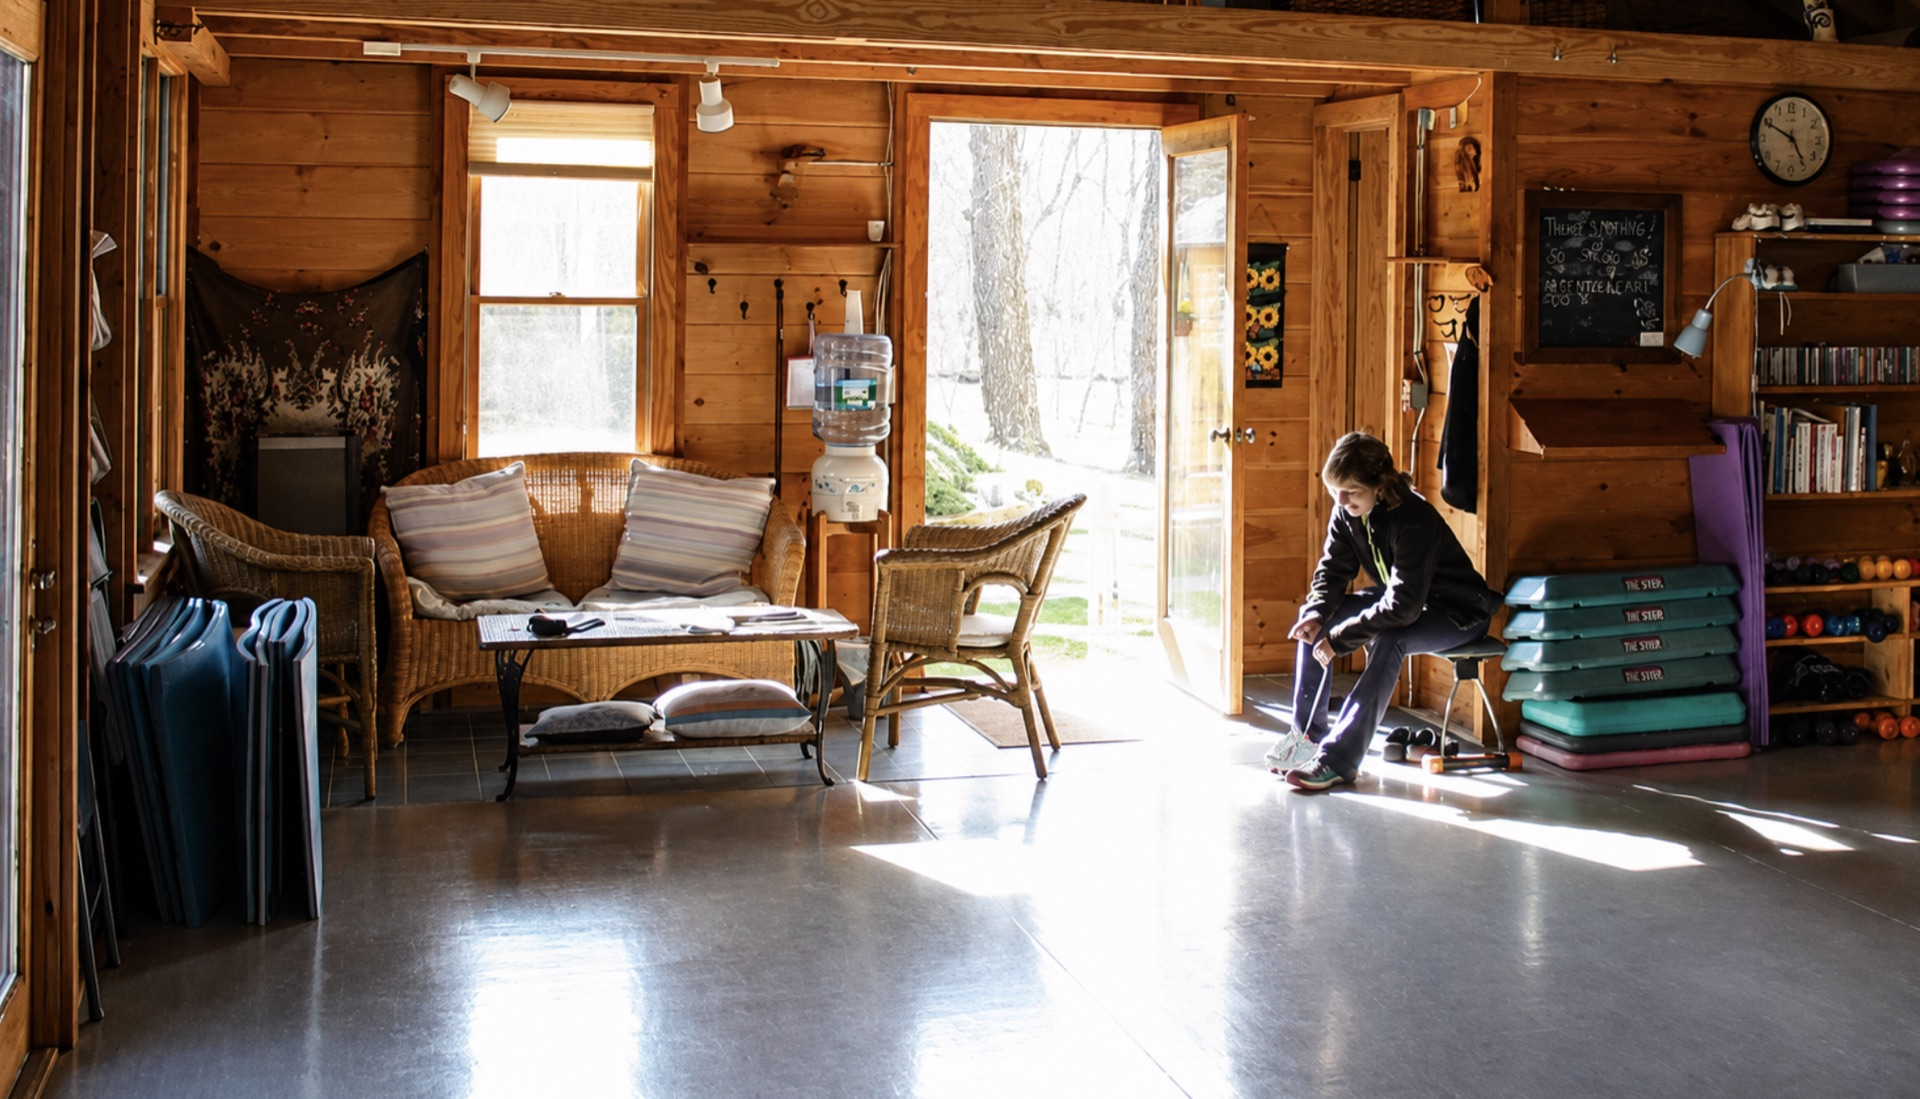
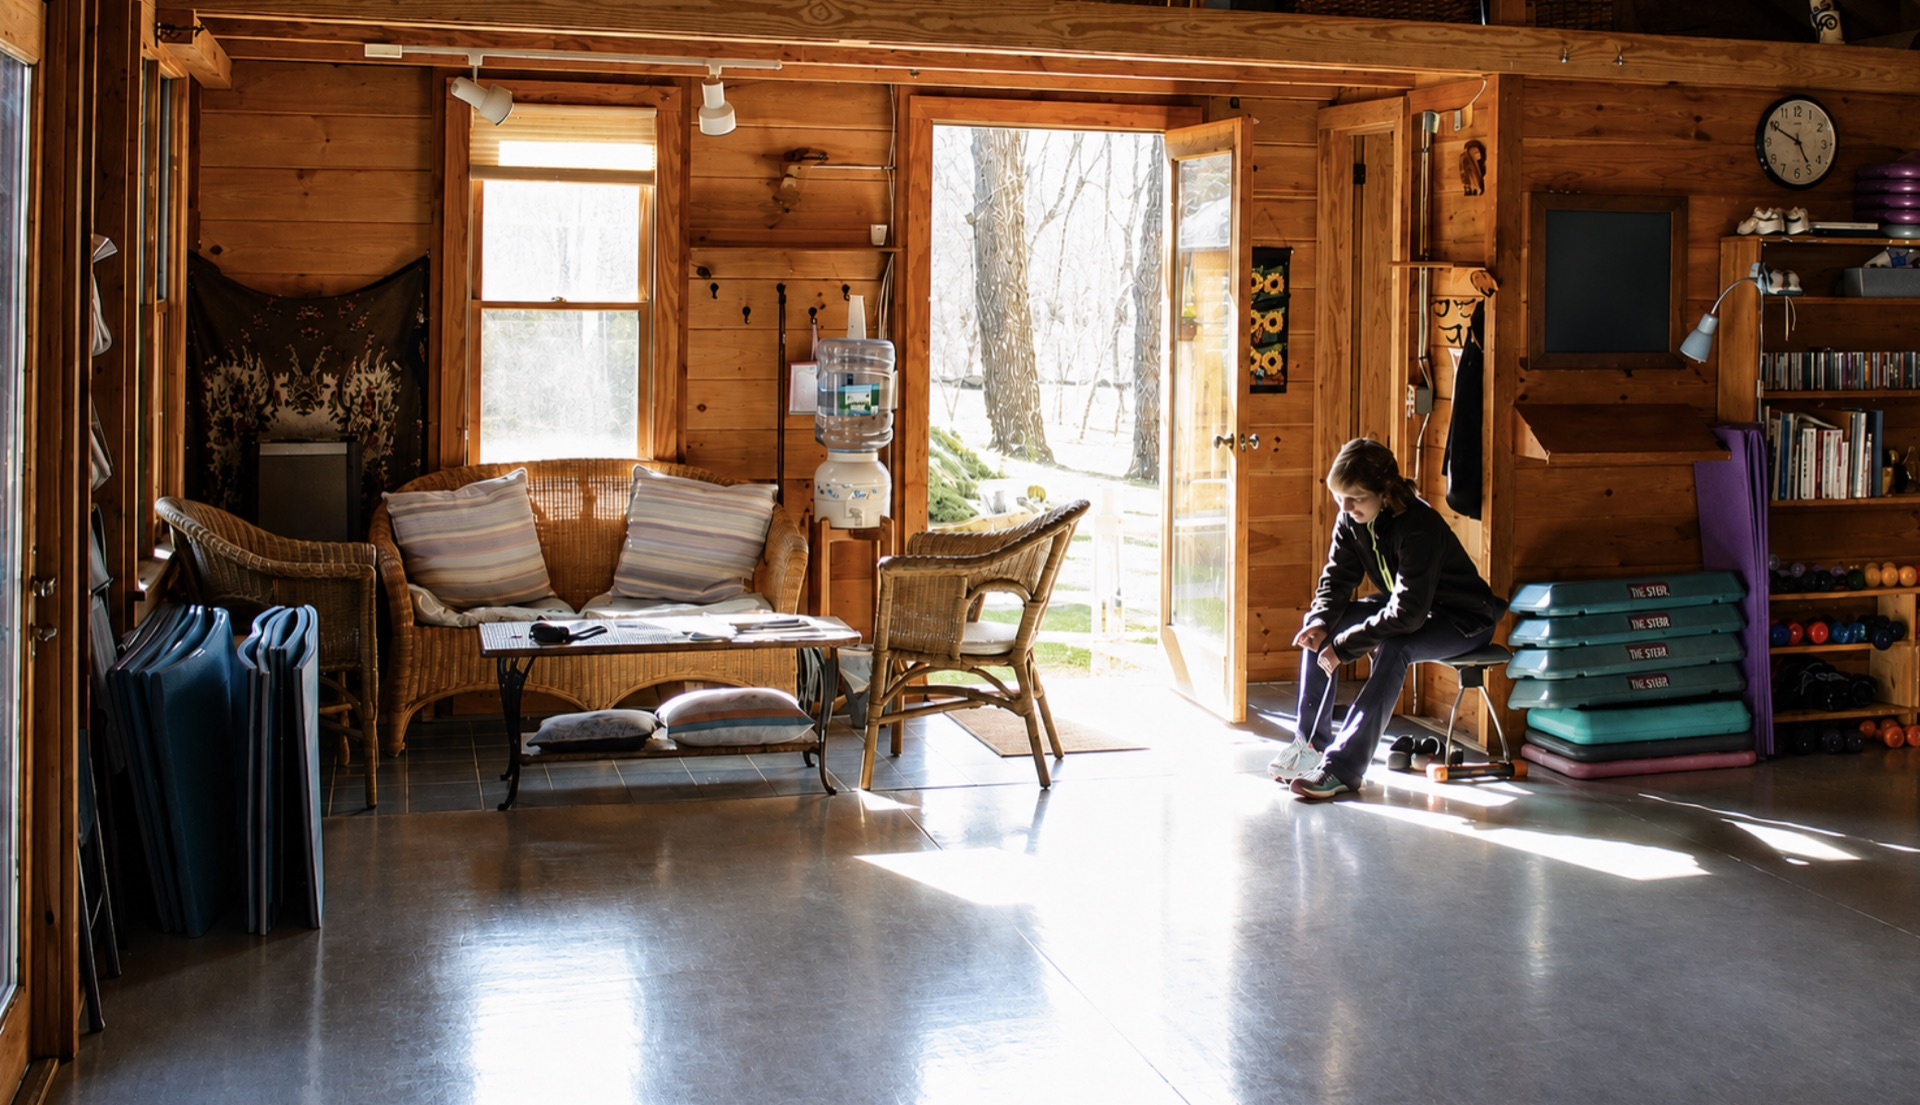
New hero; standalone schedule page; swim books by phone; footer credit
- Swap hero to the sharper studio photo
- Move group class schedule to its own schedule.html (linked only from
  the Training page); its CTA is call (primary) / email (secondary)
- Swim lessons now book by phone: 'Call Lisa to book' -> tel
- Keep free consult focused on personal training
- Add 'Website by The Switchboard Company' footer credit on all pages

diff --git a/website/schedule.html b/website/schedule.html
@@ -3,8 +3,9 @@
 <head>
   <meta charset="UTF-8" />
   <meta name="viewport" content="width=device-width, initial-scale=1" />
-  <title>The Studio — Lisa's Studio, West Tisbury</title>
-  <meta name="description" content="A calm, private fitness studio in a woodland setting at 23 Manters Path, West Tisbury, Martha's Vineyard." />
+  <title>Group Class Schedule — Lisa's Studio, Martha's Vineyard</title>
+  <meta name="description" content="Group fitness class schedule at Lisa's Studio, West Tisbury — Mon, Wed & Fri, 8:00–9:15am, June 22nd through Sept. 18th. Call Lisa to join." />
+  <meta name="robots" content="noindex, follow" />
 
   <link rel="preconnect" href="https://fonts.googleapis.com" />
   <link rel="preconnect" href="https://fonts.gstatic.com" crossorigin />
@@ -32,9 +33,9 @@
 
       <nav class="nav__links" aria-label="Primary">
         <a href="approach.html">Approach</a>
-        <a href="training.html">Training</a>
+        <a href="training.html" class="is-active" aria-current="page">Training</a>
         <a href="about.html">About</a>
-        <a href="studio.html" class="is-active" aria-current="page">The Studio</a>
+        <a href="studio.html">The Studio</a>
         <a href="contact.html">Contact</a>
       </nav>
 
@@ -50,9 +51,9 @@
 
     <div class="mobile-menu" id="mobileMenu" hidden>
       <a href="approach.html">Approach</a>
-      <a href="training.html">Training</a>
+      <a href="training.html" class="is-active" aria-current="page">Training</a>
       <a href="about.html">About</a>
-      <a href="studio.html" class="is-active" aria-current="page">The Studio</a>
+      <a href="studio.html">The Studio</a>
       <a href="contact.html">Contact</a>
       <a href="contact.html#book" class="btn btn--primary js-book">Book a free consult</a>
       <a href="tel:+15086931009" class="btn btn--ghost">Call 508-693-1009</a>
@@ -62,57 +63,54 @@
   <main id="main">
     <header class="page-hero">
       <div class="container">
-        <p class="eyebrow">The studio &amp; setting</p>
-        <h1 class="page-hero__title">A quiet space in the woods.</h1>
-        <p class="lead-muted">Set among the trees at 23 Manters Path in West Tisbury — calm, private, and unhurried. The opposite of a busy gym floor.</p>
+        <p class="eyebrow">Group class schedule</p>
+        <h1 class="page-hero__title">Studio class schedule.</h1>
+        <p class="lead-muted">Small, welcoming group classes in the studio — here's when we meet. All levels genuinely welcome.</p>
       </div>
     </header>
 
-    <section class="section studio">
+    <section class="section schedule-sec">
       <div class="container">
-        <div class="studio__gallery">
-          <div class="tile tile--tall">
-            <img src="assets/img/coaching-mat.webp" alt="Lisa coaching a client through core work on a mat, exercise balls lining the wall above" loading="lazy" />
-            <span class="tile__label">Real coaching, every rep</span>
+        <div class="sched grid-2">
+          <div class="sched__card">
+            <span class="sched__season">June 22nd – Sept. 18th</span>
+            <p class="sched__label">Studio Classes</p>
+            <p class="sched__days">Mon · Wed · Fri</p>
+            <p class="sched__time">8:00 – 9:15 am</p>
           </div>
-          <div class="tile">
-            <img src="assets/img/band-training.webp" alt="Lisa and a client doing partner resistance-band training" loading="lazy" />
-            <span class="tile__label">Strength, made friendly</span>
-          </div>
-          <div class="tile">
-            <img src="assets/img/foam-roller.webp" alt="Lisa spotting a client during foam roller balance work by the studio windows" loading="lazy" />
-            <span class="tile__label">Woodland light</span>
-          </div>
-          <div class="tile tile--wide">
-            <img src="assets/img/studio-interior.webp" alt="The bright wood-paneled studio interior with mirrors, mats, and exercise balls" loading="lazy" />
-            <span class="tile__label">Calm, private &amp; unhurried</span>
+          <div class="sched__body">
+            <p>
+              Group classes consist of a flexibility warm-up, strength training using a variety
+              of "props" — including free weights, tubing, bands, and more — and a 25-minute
+              cardio "dance" segment to a variety of music.
+            </p>
+            <p>
+              We usually use mats for core and abdominal exercises, as well as the ballet barre
+              for hip mobility and leg exercises.
+            </p>
+            <blockquote class="sched__quote">
+              "A total body workout that feels great and is <em>FUN!</em>"
+              <cite>— Lisa</cite>
+            </blockquote>
           </div>
         </div>
       </div>
     </section>
 
-    <section class="section welcome">
-      <div class="container narrow center">
-        <p class="eyebrow">Visit</p>
-        <h2 class="h2">Find us in West Tisbury.</h2>
-        <p class="lead-muted">
-          23 Manters Path, West Tisbury, Martha's Vineyard, MA.<br/>
-          Sessions are by appointment — <a href="tel:+15086931009">call 508-693-1009</a> or
-          <a href="contact.html">send a booking request</a> and Lisa will find a time that works.
-        </p>
-      </div>
-    </section>
     <section class="section cta-band">
       <div class="container center">
-        <p class="eyebrow">Ready when you are</p>
-        <h2 class="h2">Start with a free consultation.</h2>
-        <p class="cta-band__lead">Every new client begins with a free consult — Lisa hears your goals, needs, and history, then maps the right path forward. No pressure, no commitment.</p>
+        <p class="eyebrow">Join a class</p>
+        <h2 class="h2">Come move with us.</h2>
+        <p class="cta-band__lead">Classes are casual and welcoming — reach Lisa directly and she'll get you set up.</p>
         <div class="cta-band__actions">
-          <a href="contact.html#book" class="btn btn--primary btn--lg js-book">
-            <svg class="icon" viewBox="0 0 24 24" aria-hidden="true"><path fill="none" stroke="currentColor" stroke-width="1.8" stroke-linecap="round" stroke-linejoin="round" d="M7 3v3m10-3v3M4 8h16M5 6h14a1 1 0 0 1 1 1v12a1 1 0 0 1-1 1H5a1 1 0 0 1-1-1V7a1 1 0 0 1 1-1Z"/></svg>
-            Book a free consultation
+          <a href="tel:+15086931009" class="btn btn--primary btn--lg">
+            <svg class="icon" viewBox="0 0 24 24" aria-hidden="true"><path fill="none" stroke="currentColor" stroke-width="1.8" stroke-linecap="round" stroke-linejoin="round" d="M4 5c0 8.3 6.7 15 15 15a2 2 0 0 0 2-2v-2.3a1 1 0 0 0-.8-1l-3.3-.7a1 1 0 0 0-1 .3l-1 1a12 12 0 0 1-5.5-5.5l1-1a1 1 0 0 0 .3-1L9.3 4.8a1 1 0 0 0-1-.8H6a2 2 0 0 0-2 2Z"/></svg>
+            Call 508-693-1009
           </a>
-          <a href="tel:+15086931009" class="btn btn--ghost btn--lg">Call 508-693-1009</a>
+          <a href="mailto:amols@comcast.net" class="btn btn--ghost btn--lg">
+            <svg class="icon" viewBox="0 0 24 24" aria-hidden="true"><path fill="none" stroke="currentColor" stroke-width="1.8" stroke-linecap="round" stroke-linejoin="round" d="M4 6h16v12H4zM4 7l8 6 8-6"/></svg>
+            Email Lisa
+          </a>
         </div>
       </div>
     </section>

diff --git a/website/training.html b/website/training.html
@@ -112,7 +112,7 @@
                 <li>Encouraging, no-intimidation setting</li>
                 <li>All levels genuinely welcome</li>
               </ul>
-              <a href="#schedule" class="link-arrow">See the schedule
+              <a href="schedule.html" class="link-arrow">See the schedule
                 <svg class="icon" viewBox="0 0 24 24" aria-hidden="true"><path fill="none" stroke="currentColor" stroke-width="1.9" stroke-linecap="round" stroke-linejoin="round" d="M5 12h14m-6-6 6 6-6 6"/></svg>
               </a>
             </div>
@@ -147,47 +147,15 @@
                 <li>Kids, adults &amp; nervous swimmers welcome</li>
                 <li>Water confidence &amp; safety first</li>
               </ul>
-              <a href="contact.html?interest=Private+Swim+Lessons" class="link-arrow">Request lessons
-                <svg class="icon" viewBox="0 0 24 24" aria-hidden="true"><path fill="none" stroke="currentColor" stroke-width="1.9" stroke-linecap="round" stroke-linejoin="round" d="M5 12h14m-6-6 6 6-6 6"/></svg>
+              <p class="consult-note">
+                <strong>Booked directly with Lisa.</strong> Give her a call and she'll find a
+                time that works for your family and your pool.
+              </p>
+              <a href="tel:+15086931009" class="link-arrow">Call Lisa to book
+                <svg class="icon" viewBox="0 0 24 24" aria-hidden="true"><path fill="none" stroke="currentColor" stroke-width="1.8" stroke-linecap="round" stroke-linejoin="round" d="M4 5c0 8.3 6.7 15 15 15a2 2 0 0 0 2-2v-2.3a1 1 0 0 0-.8-1l-3.3-.7a1 1 0 0 0-1 .3l-1 1a12 12 0 0 1-5.5-5.5l1-1a1 1 0 0 0 .3-1L9.3 4.8a1 1 0 0 0-1-.8H6a2 2 0 0 0-2 2Z"/></svg>
               </a>
             </div>
           </article>
-        </div>
-      </div>
-    </section>
-
-    <section class="section schedule-sec" id="schedule">
-      <div class="container">
-        <div class="center section__head">
-          <p class="eyebrow">Group class schedule</p>
-          <h2 class="h2">See the schedule.</h2>
-        </div>
-        <div class="sched grid-2">
-          <div class="sched__card">
-            <span class="sched__season">June 22nd – Sept. 18th</span>
-            <p class="sched__label">Studio Classes</p>
-            <p class="sched__days">Mon · Wed · Fri</p>
-            <p class="sched__time">8:00 – 9:15 am</p>
-            <a href="contact.html#book" class="btn btn--primary js-book">
-              <svg class="icon" viewBox="0 0 24 24" aria-hidden="true"><path fill="none" stroke="currentColor" stroke-width="1.8" stroke-linecap="round" stroke-linejoin="round" d="M7 3v3m10-3v3M4 8h16M5 6h14a1 1 0 0 1 1 1v12a1 1 0 0 1-1 1H5a1 1 0 0 1-1-1V7a1 1 0 0 1 1-1Z"/></svg>
-              Book a free consultation
-            </a>
-          </div>
-          <div class="sched__body">
-            <p>
-              Group classes consist of a flexibility warm-up, strength training using a variety
-              of "props" — including free weights, tubing, bands, and more — and a 25-minute
-              cardio "dance" segment to a variety of music.
-            </p>
-            <p>
-              We usually use mats for core and abdominal exercises, as well as the ballet barre
-              for hip mobility and leg exercises.
-            </p>
-            <blockquote class="sched__quote">
-              "A total body workout that feels great and is <em>FUN!</em>"
-              <cite>— Lisa</cite>
-            </blockquote>
-          </div>
         </div>
       </div>
     </section>
@@ -235,6 +203,7 @@
     <div class="footer__base">
       <p>© <span id="year"></span> Lisa's Studio · Martha's Vineyard</p>
       <p>Personal Training &amp; Group Fitness</p>
+      <p class="footer__credit">Website by <a href="https://switchboardcompany.com" target="_blank" rel="noopener">The Switchboard Company</a></p>
     </div>
   </footer>
 

diff --git a/website/about.html b/website/about.html
@@ -158,6 +158,7 @@
     <div class="footer__base">
       <p>© <span id="year"></span> Lisa's Studio · Martha's Vineyard</p>
       <p>Personal Training &amp; Group Fitness</p>
+      <p class="footer__credit">Website by <a href="https://switchboardcompany.com" target="_blank" rel="noopener">The Switchboard Company</a></p>
     </div>
   </footer>
 

diff --git a/website/approach.html b/website/approach.html
@@ -163,6 +163,7 @@
     <div class="footer__base">
       <p>© <span id="year"></span> Lisa's Studio · Martha's Vineyard</p>
       <p>Personal Training &amp; Group Fitness</p>
+      <p class="footer__credit">Website by <a href="https://switchboardcompany.com" target="_blank" rel="noopener">The Switchboard Company</a></p>
     </div>
   </footer>
 

diff --git a/website/contact.html b/website/contact.html
@@ -246,6 +246,7 @@
     <div class="footer__base">
       <p>© <span id="year"></span> Lisa's Studio · Martha's Vineyard</p>
       <p>Personal Training &amp; Group Fitness</p>
+      <p class="footer__credit">Website by <a href="https://switchboardcompany.com" target="_blank" rel="noopener">The Switchboard Company</a></p>
     </div>
   </footer>
 

diff --git a/website/index.html b/website/index.html
@@ -220,6 +220,7 @@
     <div class="footer__base">
       <p>© <span id="year"></span> Lisa's Studio · Martha's Vineyard</p>
       <p>Personal Training &amp; Group Fitness</p>
+      <p class="footer__credit">Website by <a href="https://switchboardcompany.com" target="_blank" rel="noopener">The Switchboard Company</a></p>
     </div>
   </footer>
 

diff --git a/website/styles.css b/website/styles.css
@@ -1227,6 +1227,8 @@ p { margin: 0 0 1em; }
   font-size: 13.5px;
   color: rgba(247, 243, 236, 0.6);
 }
+.footer__credit a { color: rgba(247, 243, 236, 0.8); font-weight: 600; }
+.footer__credit a:hover { color: #E5B79F; }
 
 /* ---------- Reveal on scroll ---------- */
 .reveal {
